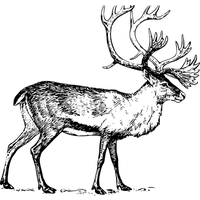
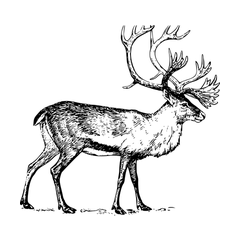
Moving image.

Changed region(s): [[0.0, 0.03, 1.0, 0.99], [0.84, 0.03, 0.87, 0.06]]

diff --git a/README.md b/README.md
@@ -5,6 +5,8 @@
 Yeoman generator for projects that want a simple path to set up the following
 tools for front-end development:
 
+<img align="right" src="templates/app/media/caribou-small.png" alt="Caribou">
+
  - [gulp][gulp] task runner
  - [Sass][sass] for stylesheets
  - [Browserify][browserify] for combining JavaScript
@@ -23,9 +25,6 @@ mkdir my-app
 cd my-app
 yo caribou
 ```
-
-![Caribou][caribou-image]
-
 
 ## Usage
 
